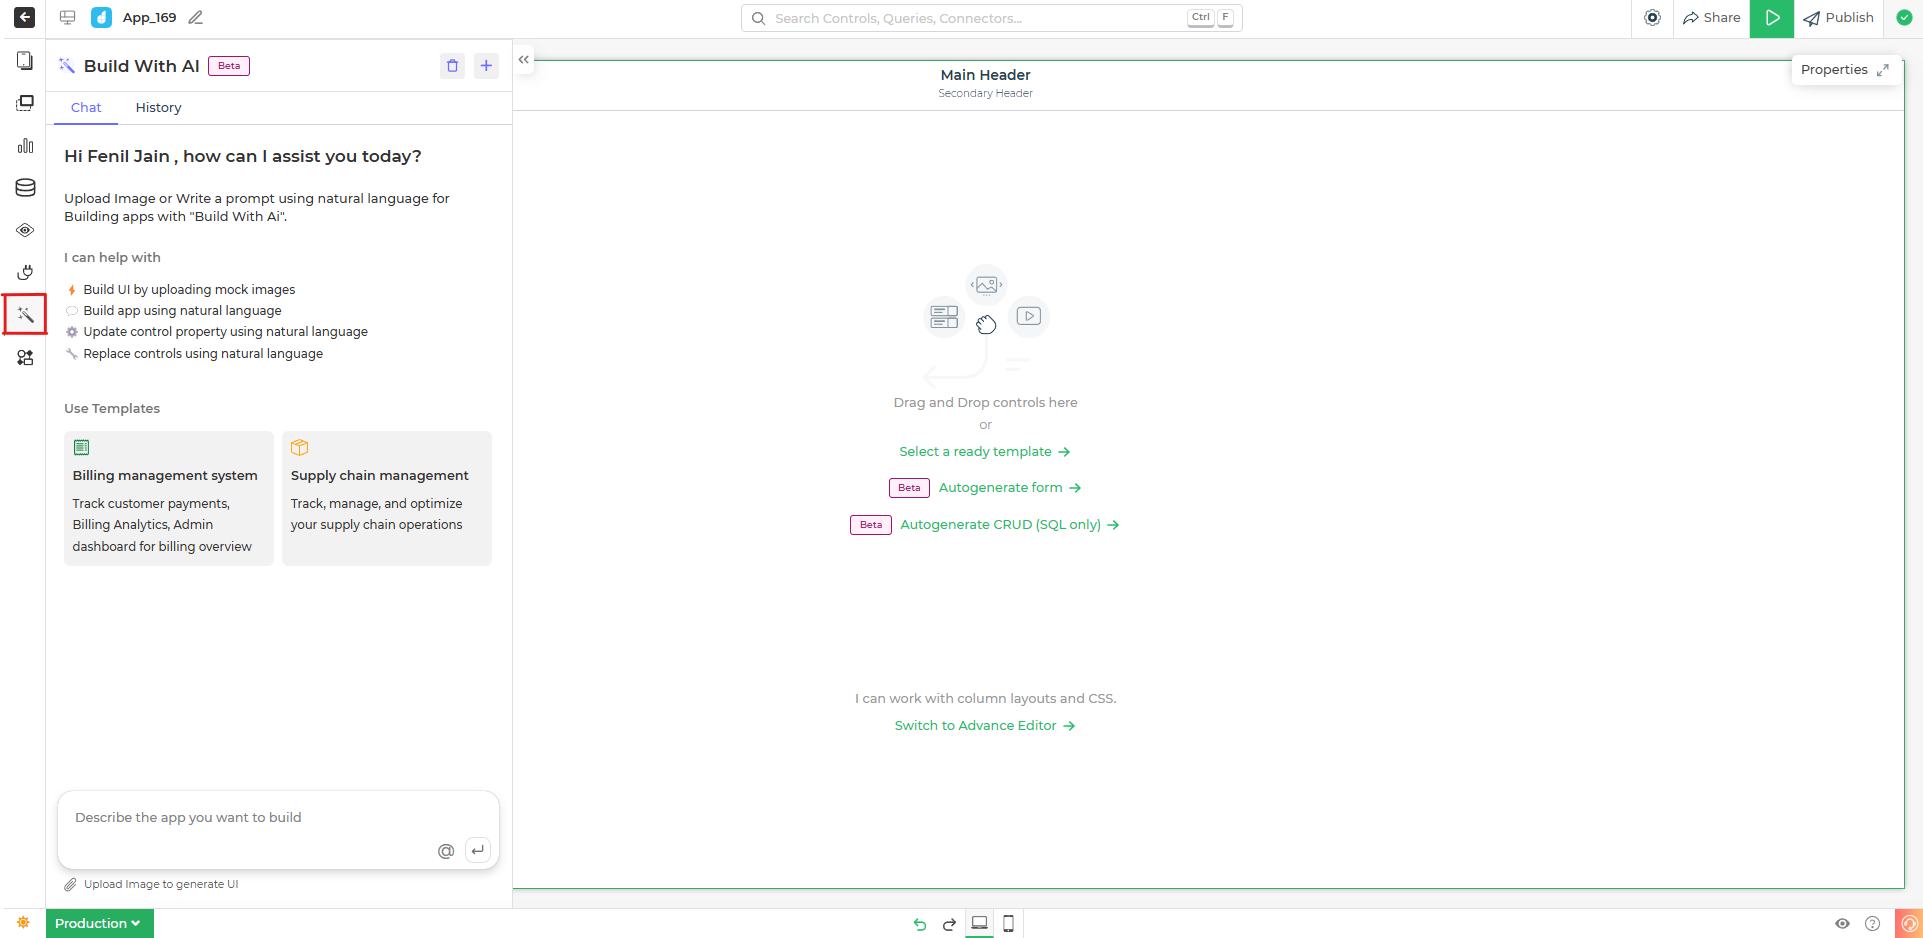
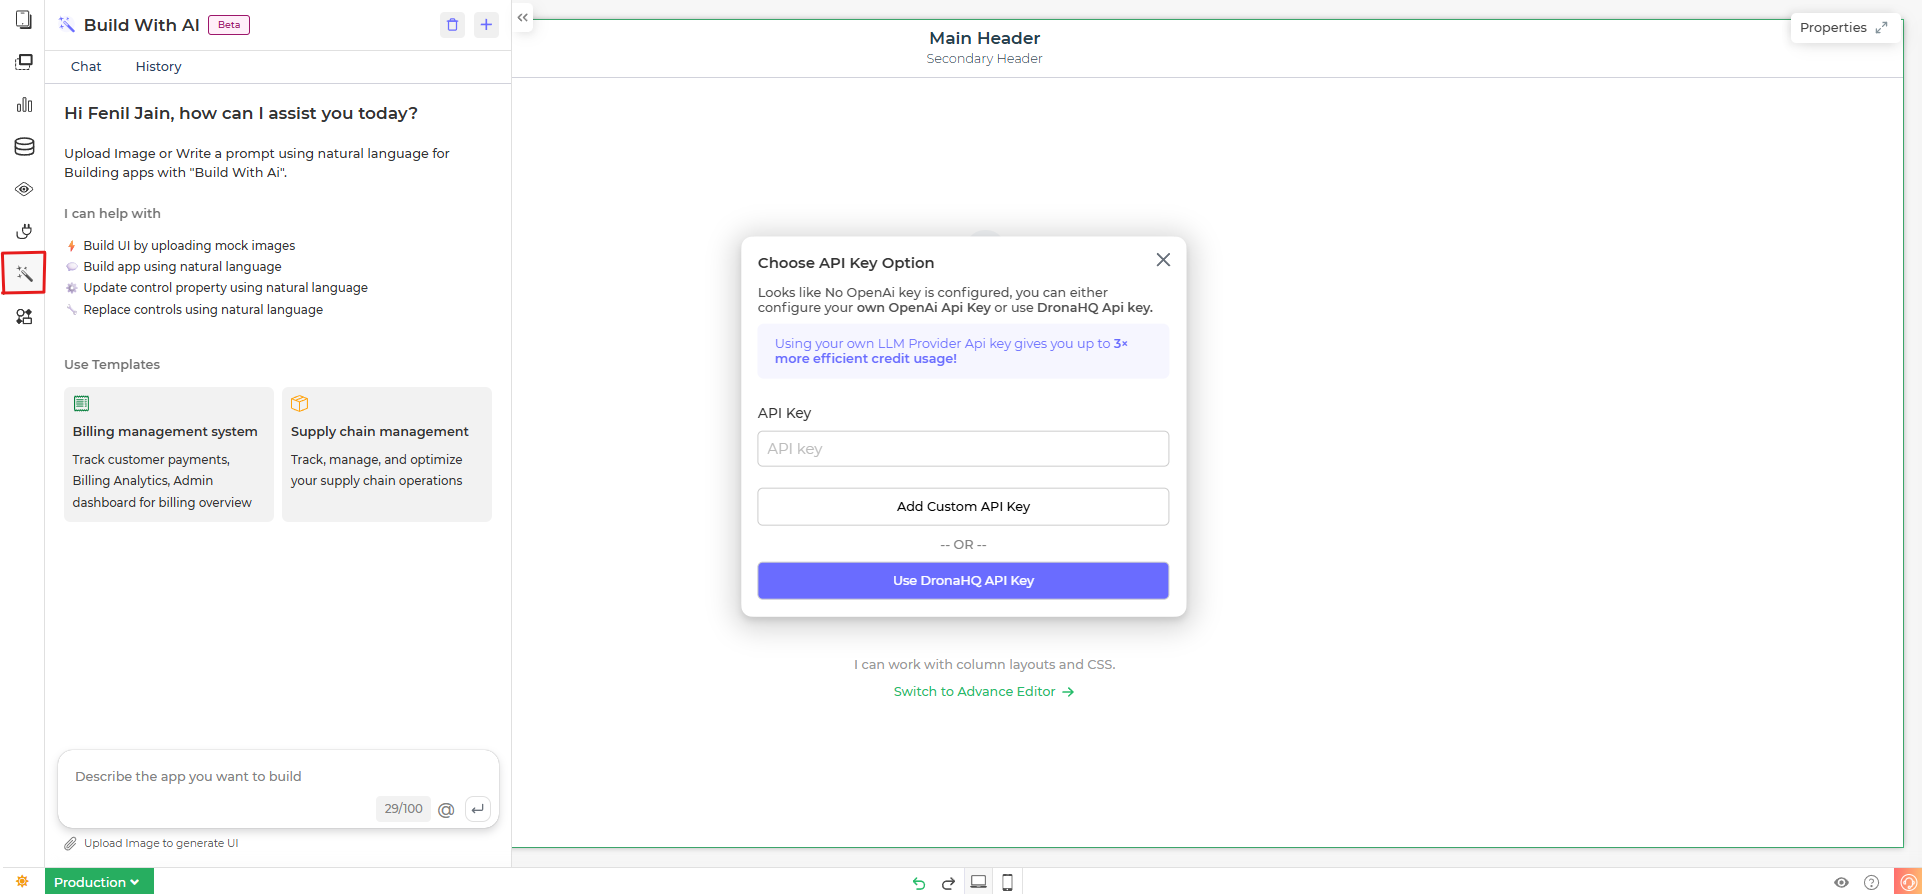
build with Ai update

diff --git a/docs/building-with-ai/ai-powered-editing.md b/docs/building-with-ai/ai-powered-editing.md
@@ -25,6 +25,20 @@ For example:
 - `Enable pagination in @tablegrid`
 - `Update the label for @jsonForm to Customer Details Form and make it bold`
 
+<div style={{ position: 'relative', paddingBottom: 'calc(46.33333333333333% + 41px)', height: 0 }}> 
+    <iframe 
+        src="https://demo.arcade.software/GsLcXalswdcEeJwq0EoG?embed&embed_mobile=tab&embed_desktop=inline&show_copy_link=true"
+        title="Create and Customize an AI-Powered App"
+        frameborder="0" 
+        loading="lazy" 
+        webkitallowfullscreen 
+        mozallowfullscreen 
+        allowfullscreen 
+        style= {{ position: 'absolute', top: 0, left: 0, width: '100%', height: '100%', colorScheme: 'light' }} >
+    </iframe>
+</div>
+<br></br>  
+
 #### How to Use
 1. Open the AI Chatbot from the left sidebar.
 2. Type your prompt using `@componentName` to refer to an existing control.
@@ -47,10 +61,14 @@ Currently, only a limited set of controls are supported for updating component p
 
 With AI-powered editing in DronaHQ, you can quickly add actions to components by typing simple prompts. These actions can trigger specific behaviors, such as validating a screen, run a query on DB connector , or showing confirmation popup.
 
+  
+  <figure>
+    <Thumbnail src="/img/build-with-ai/actionai.gif" alt="Chatbot" />
+  </figure>
+
 For example:
 - `On @loginForm submit click, insert form details into @formFeedbackDB`
 - `On @submitBtn button click, validate screen-1 and navigate to screen-2`
-- `On @inputField focus out, validate screen-1 and show toast on validation failure`
 
 #### How to Use
 1. Open the AI Chatbot from the left sidebar.
@@ -90,6 +108,11 @@ This feature is great for rapidly implementing behaviors like form submissions, 
 ## Replace Components via Prompt
 
 If you need to swap one component for another in your app, you can do this quickly via conversational prompts. This saves you from the hassle of manually deleting and adding new components, helping you keep your workflow efficient.
+
+  <figure>
+    <Thumbnail src="/img/build-with-ai/replaceai.gif" alt="Chatbot" />
+  </figure>
+
 
 For example:
 - `Replace @dropdown with form for capturing customer information`
@@ -133,6 +156,20 @@ At the moment, the DronaHQ AI Chatbot does not support directly bind data to com
 1. Click on the component (e.g., Table Grid) where you want to bind data.
 2. Click on the top Ai assist icon on the component.
 3. Enter your prompt, such as "fetch all data from the @[DB Connector Name]".
+
+<div style={{ position: 'relative', paddingBottom: 'calc(46.33333333333333% + 41px)', height: 0 }}> 
+    <iframe 
+        src="https://demo.arcade.software/bgKkFRh58LanOWS4Pwo5?embed&embed_mobile=tab&embed_desktop=inline&show_copy_link=true"
+        title="Configuring and Executing Data Queries"
+        frameborder="0" 
+        loading="lazy" 
+        webkitallowfullscreen 
+        mozallowfullscreen 
+        allowfullscreen 
+        style= {{ position: 'absolute', top: 0, left: 0, width: '100%', height: '100%', colorScheme: 'light' }} >
+    </iframe>
+</div>
+<br></br>  
 
 This will guide the AI to generate the appropriate data query for you, helping you bind your data source to the component.
 

diff --git a/docs/building-with-ai/getting-started.md b/docs/building-with-ai/getting-started.md
@@ -29,34 +29,47 @@ To know more refer to our [Configure OpenAI keys](/ai-configure-openai-keys/) do
 
 Once your key is added, you’re ready to start building with AI!
 
+  ##  Locate the AI Chatbot
+  
+  <figure>
+    <Thumbnail src="/img/build-with-ai/chatbot.png" alt="Chatbot" />
+  </figure>
 
-##  Locate the AI Chatbot
+ 
+  Once your API key is set, you can access the AI Chatbot right inside the App Builder.
 
-Once your API key is set, you can access the AI Chatbot right inside the App Builder.
+  - Open the App Builder from your DronaHQ app builder.
+  - On the left sidebar, look for the 🪄 AI Chatbot icon .
+  - Click it to launch the chat panel and start building with prompts.
 
-- Open the App Builder from your DronaHQ app builder.
-- On the left sidebar, look for the 🪄 AI Chatbot icon .
-- Click it to launch the chat panel and start building with prompts.
+  #### 🔑 Configure API Key (First-time setup)
+  You can either configure your own OpenAi Api Key or use DronaHQ Api key.
 
-<figure>
-  <Thumbnail src="/img/build-with-ai/chatbot.png" alt="Chatbot" />
-</figure>
+  * **Add your own API key** (recommended for faster responses and higher credit limits)
+  * **Using DronaHQ’s API key** (ideal for trying out the feature)
 
 
 
-- Top Bar: Shows your app name and feature label ("Build With AI").
-- Tabs: Switch between "Chat" (current session) and "History" (past interactions).
-- Main Area: 
-  - A personalized greeting.
-  - Options to either type prompts or upload images to build apps.
-  - Clear pointers on tasks like building UI, updating properties, or replacing controls using natural language.
-- Templates: Ready-to-use templates like "Billing Management System" and "Supply Chain Management" to jumpstart your project.
-- Input Box: Describe your app idea or upload images to generate screens. There's also an Attachment button for uploading templates.
+  - Top Bar: Shows your app name and feature label ("Build With AI").
+  - Tabs: Switch between "Chat" (current session) and "History" (past interactions).
+  - Main Area: 
+    - A personalized greeting.
+    - Options to either type prompts or upload images to build apps.
+    - Clear pointers on tasks like building UI, updating properties, or replacing controls using natural language.
+  - Templates: Ready-to-use templates like "Billing Management System" and "Supply Chain Management" to jumpstart your project.
+  - Input Box: Describe your app idea or upload images to generate screens. There's also an Attachment button for uploading templates.
+  - Credit balance - Right on the corner of the input  box, we can keep track of tokens getting used.
+
+
 
 
 ## Build Your Application
 
-To start building your app, simply type a prompt like "Create a form to capture customer feedback using @formFeedbackDB" and let AI generate the layout for you.
+To start building your app, simply type a prompt like `Generate a form to collect attendance using @workshopDB-SD` and let AI generate the layout for you.
+
+<figure>
+  <Thumbnail src="/img/build-with-ai/nlp-gen.png" alt="Chatbot" />
+</figure>
 
 To know more about creating apps with AI, refer to the [Create Apps with AI](create-apps-with-ai.md).
 

diff --git a/docs/building-with-ai/create-apps-with-ai.md b/docs/building-with-ai/create-apps-with-ai.md
@@ -35,9 +35,24 @@ No need to write a prompt. It’s a visual-first way to get started fast.
 ### Option 2: Describe the App in a Prompt
 You can type a simple prompt like:
 
->"Create a customer feedback form with name, rating, and comment box using @formFeedbackDB."
+>"Create a simple Property management App using @SD-workshop "
+
+<div style={{ position: 'relative', paddingBottom: 'calc(46.33333333333333% + 41px)', height: 0 }}> 
+    <iframe 
+        src="https://demo.arcade.software/7KKFLX6o76BkC8W9BWt3?embed&embed_mobile=tab&embed_desktop=inline&show_copy_link=true"
+        title="Create a Property Management App with AI"
+        frameborder="0" 
+        loading="lazy" 
+        webkitallowfullscreen 
+        mozallowfullscreen 
+        allowfullscreen 
+        style= {{ position: 'absolute', top: 0, left: 0, width: '100%', height: '100%', colorScheme: 'light' }} >
+    </iframe>
+</div>
+<br></br>   
 
 Here’s what happens next:
+1. With the propmt user will also mention the exact schema in the configured connector.
 1. AI generates a BRD (Business Requirements Document) based on your prompt.
 2. You can edit this BRD using markdown — rename fields, update text, add or remove items.
 3. Once done, click **Approve** — and DronaHQ will instantly build the app screen using the BRD.
@@ -49,7 +64,7 @@ Once the app is created, you can use AI-powered prompts to:
 - Add actionflows
 - Replace components dynamically
 
-To know more refer to the following docs.
+To know more refer to the [following docs](/building-with-ai/ai-powered-editing/).
 
 ### Current Limitations
 - Supports only SQL based DB connector for now, also without passing @DBConnector, App can't be generated.
